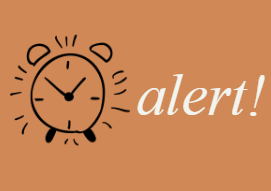
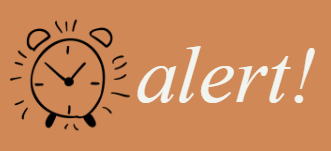
fix: 로고 크기 변경

Changed region(s): [[0.0295, 0.1325, 1.0, 0.8742]]

diff --git a/src/shared/Layout.js b/src/shared/Layout.js
@@ -1,15 +1,17 @@
 import React from "react";
 import { Link } from "react-router-dom";
 import styled from "styled-components";
-import logo from "../img/Alert.png"
+import logo from "../img/Alert.png";
 
 function Header() {
   return (
     <HeadTitle>
       <Link to="/">
         <LogoImg src={logo} />
-        </Link>
-      <Link to="/login"><LoginBtn>Login</LoginBtn></Link>
+      </Link>
+      <Link to="/login">
+        <LoginBtn>Login</LoginBtn>
+      </Link>
     </HeadTitle>
   );
 }
@@ -48,7 +50,7 @@ const LogoImg = styled.img`
   text-align: center;
   align-items: center;
   background-size: cover;
-  width: 115px;
+  width: 170px;
   padding: 0px 0px 15px 15px;
 `;
 
@@ -70,5 +72,5 @@ const LoginBtn = styled.button`
   width: 100px;
   border-radius: 10px;
   background-color: white;
-  font-size: 1.0em;
-`
+  font-size: 1em;
+`;
